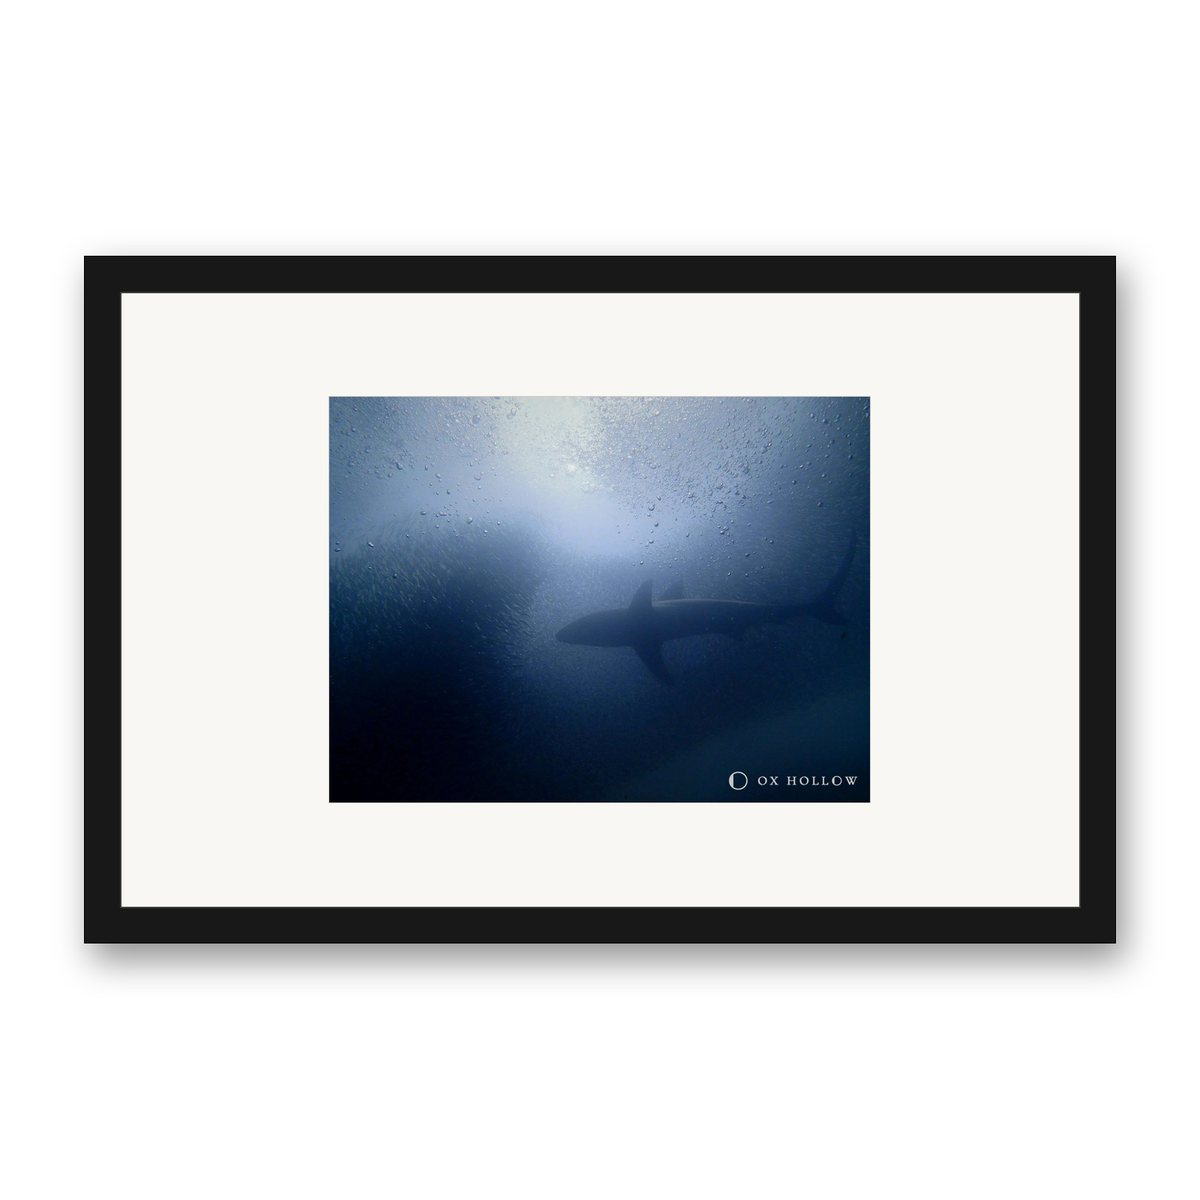
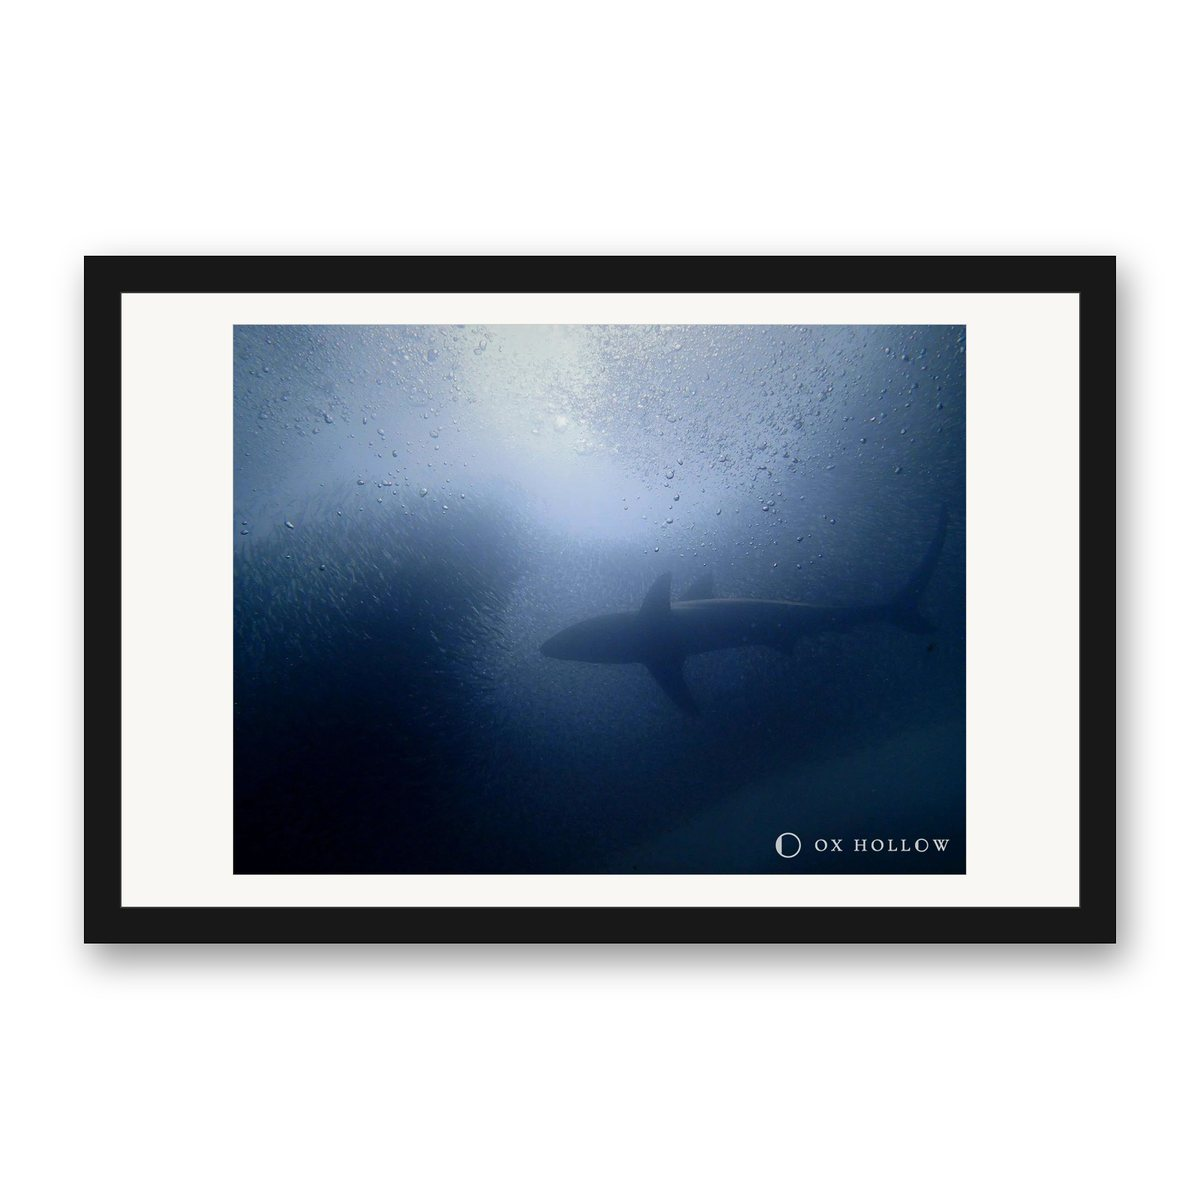
Shark Shadow: slimmer mat so the photo fills the frame (catalog mockup_mat override in make_mockups.py)

Changed region(s): [[0.185, 0.2467, 0.8325, 0.74], [0.5242, 0.4933, 0.5858, 0.5242], [0.4933, 0.4317, 0.5242, 0.4625]]

diff --git a/scripts/make_photobook.py b/scripts/make_photobook.py
@@ -1,7 +1,9 @@
 #!/usr/bin/env python3
 """
 Render an Instagram carousel (1080x1350) that reads like a photobook you page through:
-closed cloth cover -> title spread -> one photo per spread (or a pair) -> back page colophon.
+closed cloth cover -> title page -> one photo per page (one page per slide, alternating
+verso/recto) -> back page colophon. Set "mode": "spreads" in book.json for two-page open
+spreads instead (each entry "layout": "spread" or "pair").
 
     python3 scripts/make_photobook.py book.json OUT_DIR
 
@@ -325,6 +327,107 @@ def back_page(book, out):
     bg.save(out, quality=92)
 
 
+# ---------- single-page mode (default): one leaf per slide ----------
+PW, PH = 960, 1230
+PX0, PY0 = (W - PW) // 2, (H - PH) // 2 - 6
+
+
+def leaf(side):
+    """One page of the open book, centred: cloth rim, page-block edges on the outer side
+    and foot, spine shading on the inner side. side = 'recto' (spine left) or 'verso'."""
+    import math
+    c = table()
+    x0, y0, x1, y1 = PX0, PY0, PX0 + PW, PY0 + PH
+    rim = (x0 - 14, y0 - 12, x1 + 14, y1 + 16)
+    shadow(c, rim, blur=30, offset=(0, 20), alpha=120)
+    cl = linen((rim[2] - rim[0], rim[3] - rim[1]))
+    m = Image.new("L", cl.size, 0)
+    ImageDraw.Draw(m).rounded_rectangle((0, 0, cl.width - 1, cl.height - 1), 7, fill=255)
+    c.paste(cl, rim[:2], m)
+    d = ImageDraw.Draw(c)
+    for i in range(5, 0, -1):
+        o = i * 2
+        tone = tuple(v - 10 - i * 3 for v in CREAM)
+        line = tuple(v - 40 for v in CREAM)
+        if side == "recto":
+            d.rectangle((x0, y0 + o // 2, x1 + o, y1 + o), fill=tone, outline=line)
+        else:
+            d.rectangle((x0 - o, y0 + o // 2, x1, y1 + o), fill=tone, outline=line)
+    c.paste(paper((PW, PH)), (x0, y0))
+    return c
+
+
+def leaf_shade(c, side):
+    import math
+    row = []
+    for x in range(PW):
+        di = x if side == "recto" else PW - 1 - x      # distance from the spine
+        v = 0.15 * math.exp(-di / 20) + 0.07 * math.exp(-di / 130) + 0.05 * math.exp(-(PW - 1 - di) / 30)
+        row.append(int(min(255, v * 255)))
+    m = Image.new("L", (PW, 1))
+    m.putdata(row)
+    c.paste((40, 36, 28), (PX0, PY0), m.resize((PW, PH)))
+
+
+def leaf_folio(c, side, n):
+    d = ImageDraw.Draw(c)
+    y = PY0 + PH - 64
+    if side == "recto":
+        tracked_at(d, PX0 + PW - 64, y, str(n), font(26), INK, 0.12, "r")
+    else:
+        tracked_at(d, PX0 + 64, y, str(n), font(26), INK, 0.12, "l")
+
+
+def page_slide(p, side, n, out):
+    c = leaf(side)
+    inner, outer = 52, 34                      # a wider margin on the spine side
+    bx0 = PX0 + (inner if side == "recto" else outer)
+    bx1 = PX0 + PW - (outer if side == "recto" else inner)
+    x0, y0, x1, y1 = mount(c, p["image"], (bx0, PY0 + 70, bx1, PY0 + PH - 210))
+    leaf_shade(c, side)
+    d = ImageDraw.Draw(c)
+    cx = (x0 + x1) / 2
+    tracked(d, cx, y1 + 44, p["title"].upper(), font(26), GREEN, 0.14)
+    size = fit_italic_size(p["detail"], 36, x1 - x0)
+    italic(c, (cx, y1 + 90), p["detail"], size, INK, "c")
+    leaf_folio(c, side, n)
+    c.save(out, quality=92)
+
+
+def title_leaf(book, out):
+    c = leaf("recto")
+    leaf_shade(c, "recto")
+    d = ImageDraw.Draw(c)
+    cx = PX0 + PW / 2 + 9
+    col, mk = recolour(MOON, 58, GREEN)
+    c.paste(col, (round(cx - mk.width / 2), 470), mk)
+    y = 580
+    for i, line in enumerate(book["title_page"]):
+        f = font(78 if i == 0 else 50)
+        tracked(d, cx, y, line, f, GREEN, 0.12)
+        y += f.size * 1.35
+    if book.get("title_note"):
+        size = fit_italic_size(book["title_note"], 38, PW - 160)
+        italic(c, (cx, y + 34), book["title_note"], size, INK, "c")
+    c.save(out, quality=92)
+
+
+def back_leaf(book, out):
+    c = leaf("recto")
+    leaf_shade(c, "recto")
+    d = ImageDraw.Draw(c)
+    cx = PX0 + PW / 2 + 9
+    col, mk = recolour(LOGO, 440, GREEN)
+    c.paste(col, (round(cx - mk.width / 2), 400), mk)
+    y = 400 + mk.height + 80
+    d.line((cx - 36, y, cx + 36, y), fill=GREEN, width=1)
+    tracked(d, cx, y + 46, "PRINTS FROM THIS BOOK", font(30), GREEN, 0.14)
+    tracked(d, cx, y + 96, "oxhollowmedia.com/prints", font(40), INK, 0.04)
+    size = fit_italic_size(book["colophon_line"], 38, PW - 160)
+    italic(c, (cx, y + 200), book["colophon_line"], size, INK, "c")
+    c.save(out, quality=92)
+
+
 def main():
     if len(sys.argv) != 3:
         sys.exit(__doc__)
@@ -333,14 +436,24 @@ def main():
     out.mkdir(parents=True, exist_ok=True)
     i = 1
     cover(book, out / f"{i}-cover.jpg"); i += 1
-    title_spread(book, out / f"{i}-title.jpg"); i += 1
-    folio = 4
-    for p in book["pages"]:
-        name = (p.get("image") or p["left"]["image"]).split("/")[-1].split(".")[0].lstrip("0123456789-")
-        (spread if p["layout"] == "spread" else pair)(p, folio, out / f"{i}-{name}.jpg")
-        i += 1
-        folio += 2
-    back_page(book, out / f"{i}-back.jpg")
+    if book.get("mode", "pages") == "pages":     # default: one page per slide, alternating sides
+        title_leaf(book, out / f"{i}-title.jpg"); i += 1
+        n = 2
+        for p in book["pages"]:
+            name = p["image"].split("/")[-1].split(".")[0].lstrip("0123456789-")
+            page_slide(p, "verso" if n % 2 == 0 else "recto", n, out / f"{i}-{name}.jpg")
+            i += 1
+            n += 1
+        back_leaf(book, out / f"{i}-back.jpg")
+    else:                                         # "mode": "spreads" -> two-page open spreads
+        title_spread(book, out / f"{i}-title.jpg"); i += 1
+        folio = 4
+        for p in book["pages"]:
+            name = (p.get("image") or p["left"]["image"]).split("/")[-1].split(".")[0].lstrip("0123456789-")
+            (pair if p.get("layout") == "pair" else spread)(p, folio, out / f"{i}-{name}.jpg")
+            i += 1
+            folio += 2
+        back_page(book, out / f"{i}-back.jpg")
     print(f"{i} slides -> {out}")
 
 

diff --git a/scripts/make_mockups.py b/scripts/make_mockups.py
@@ -63,7 +63,7 @@ def stamp(pic, mark):
     return base.convert("RGB")
 
 
-def draw(photo, mat, colour, w_in, h_in, mark):
+def draw(photo, mat, colour, w_in, h_in, mark, mat_frac=0.11):
     canvas = Image.new("RGB", (S, S), "white")
     scale = 0.86 * S / max(w_in, h_in)
     fw, fh = int(w_in * scale), int(h_in * scale)
@@ -84,7 +84,7 @@ def draw(photo, mat, colour, w_in, h_in, mark):
     d.rectangle([ix0, iy0, ix1, iy1], outline=(60, 60, 60), width=2)  # inner bevel line
     if mat == "framed":
         d.rectangle([ix0 + 2, iy0 + 2, ix1 - 2, iy1 - 2], fill=(248, 247, 243))  # mat
-        m = int(0.11 * (ix1 - ix0))
+        m = int(mat_frac * (ix1 - ix0))   # per-print override: catalog "mockup_mat"
         bx0, by0, bx1, by1 = ix0 + m, iy0 + m, ix1 - m, iy1 - m
         pic = photo.copy(); pic.thumbnail((bx1 - bx0, by1 - by0), Image.LANCZOS)   # printed in full
         pic = stamp(pic, mark)
@@ -129,7 +129,7 @@ def main():
             urls = {}
             for colour in e[k]["frames"]:
                 name = f"{p['slug']}-{mat.replace('_', '-')}-{colour}.jpg"
-                draw(photo, mat, colour, w_in, h_in, mark).resize((1200, 1200), Image.LANCZOS).save(OUT / name, quality=84, optimize=True)
+                draw(photo, mat, colour, w_in, h_in, mark, p.get("mockup_mat", 0.11)).resize((1200, 1200), Image.LANCZOS).save(OUT / name, quality=84, optimize=True)
                 urls[colour] = f"/images/mockups/{name}"
                 made += 1
             p.setdefault("previews", {})[mat] = urls
